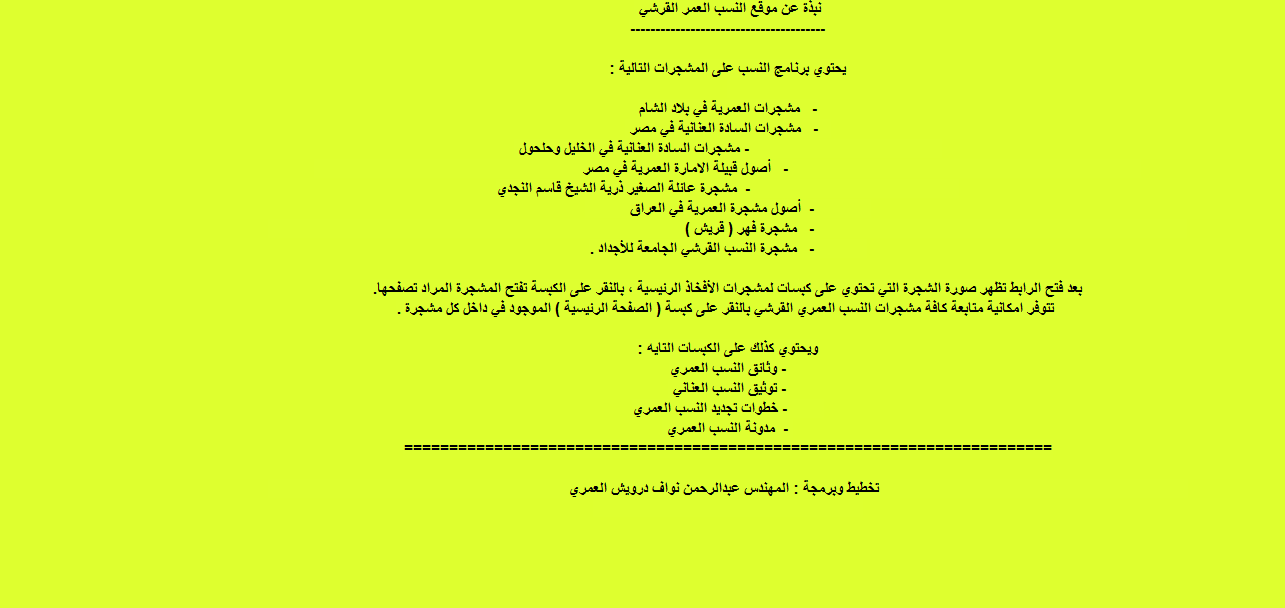
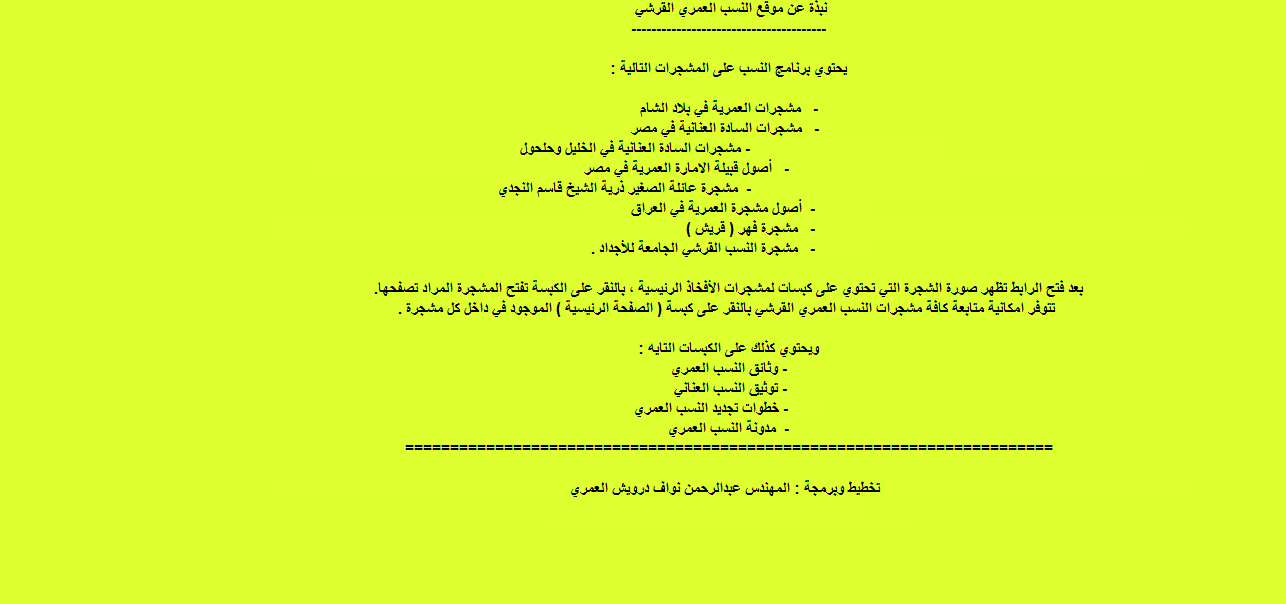
update

diff --git a/about us.html b/about us.html
@@ -30,12 +30,12 @@ function FP_getObjectByID(id,o) {//v1.0
 </script>
 </head>
 
-<body onload="FP_preloadImgs(/*url*/'button1596.gif',/*url*/'button1597.gif')" style="background-color: #DEFF2F">
+<body onload="FP_preloadImgs(/*url*/'button1602.gif',/*url*/'button1603.gif')" style="background-color: #DEFF2F">
 
-<div id="layer1" style="position: absolute; width: 116px; height: 28px; z-index: 1; left: 10px; top: 15px">
+<div id="layer1" style="position: absolute; width: 112px; height: 32px; z-index: 1; left: 10px; top: 15px">
 	<a href="index.html">
-	<img id="img1" alt="الصفحة الرئيسية" height="22" onmousedown="FP_swapImg(1,0,/*id*/'img1',/*url*/'button1597.gif')" onmouseout="FP_swapImg(0,0,/*id*/'img1',/*url*/'button1598.gif')" onmouseover="FP_swapImg(1,0,/*id*/'img1',/*url*/'button1596.gif')" onmouseup="FP_swapImg(0,0,/*id*/'img1',/*url*/'button1596.gif')" src="button1598.gif" style="border: 0" width="112" /><!-- MSComment="ibutton" fp-style="fp-btn: Metal Capsule 3; fp-font-style: Bold; fp-transparent: 1" fp-title="الصفحة الرئيسية" --></a></div>
-<img alt="" height="608" src="about%20us.png" width="1285" />
+	<img id="img1" alt="الصفحة الرئيسية" height="22" onmousedown="FP_swapImg(1,0,/*id*/'img1',/*url*/'button1603.gif')" onmouseout="FP_swapImg(0,0,/*id*/'img1',/*url*/'button1604.gif')" onmouseover="FP_swapImg(1,0,/*id*/'img1',/*url*/'button1602.gif')" onmouseup="FP_swapImg(0,0,/*id*/'img1',/*url*/'button1602.gif')" src="button1604.gif" style="border: 0" width="112" /><!-- MSComment="ibutton" fp-style="fp-btn: Metal Capsule 3; fp-font-style: Bold; fp-transparent: 1" fp-title="الصفحة الرئيسية" --></a></div>
+<img alt="" height="604" src="about%20us.png" width="1286" />
 
 </body>
 
